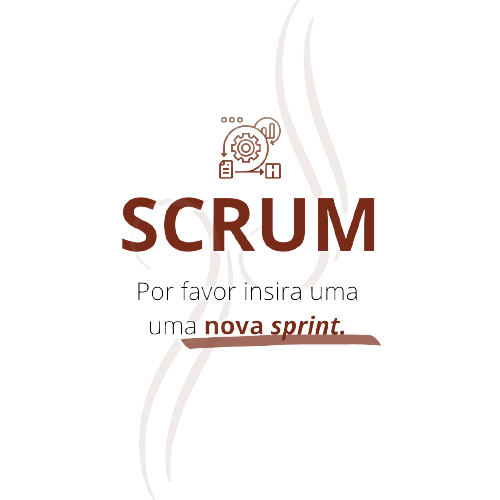
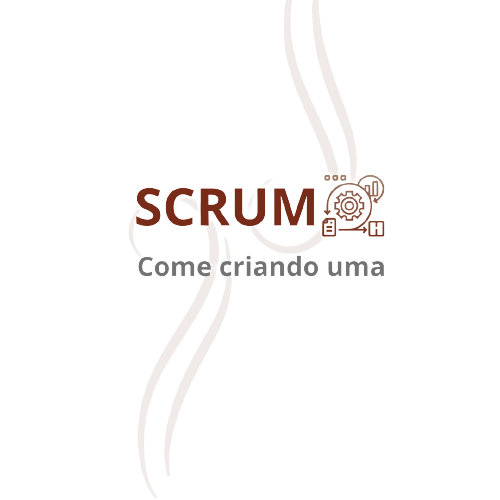
adicionada ideia de nova posição do botão

Changed region(s): [[0.24, 0.21, 0.78, 0.6], [0.33, 0.63, 0.78, 0.72]]

diff --git a/css/index.css b/css/index.css
@@ -1,7 +1,7 @@
 *{
     font-family: arial;
 }
-#addSprint{
+.addSprint{
     background-color: #782b18;
     font-size: 20px;
     color: #e8c8c0;
@@ -15,12 +15,34 @@
     z-index: 99;
 
 }
-#addSprint:hover{
+.nSprint{
+    position: relative;
+    width: 100%;
+    max-width: 700px;
+    flex-wrap: wrap;
+}
+.cxBtn{
+    position: absolute;
+    width: 100%;
+    display: flex;
+    justify-content: center;
+    bottom: 180px;
+}
+.addSprint2{
+    background-color: #782b18;
+    font-size: 20px;
+    color: #e8c8c0;
+    border: none;
+    padding: 5px 20px;
+    border-radius: 10px;
+    cursor: pointer;
+}
+.addSprint:hover{
     box-shadow: 5px 5px 5px rgba(0, 0, 0, 0.182);
     transition: .5s;
 }
 
-#addSprint:hover i{
+.addSprint:hover i{
     text-shadow: 0 0 10px rgb(234, 255, 1);
     transition: .5s;
 }
@@ -127,7 +149,6 @@ section::-webkit-scrollbar-thumb {
 
 }
 .img-aa{
-    z-index: 9999;
     max-width: 100%;
     opacity: .9;
     margin: 0 auto;

diff --git a/css/portal.css b/css/portal.css
@@ -85,12 +85,7 @@ nav a{
 	
 
 }
-#addSprint{
-	position: fixed;
-	right: 20px;
-	bottom: 20px;
-	
-}
+
 header{
 	position: relative;
 	background-color: #592c0c;

diff --git a/index.php b/index.php
@@ -91,7 +91,10 @@
                 </table>
                 <?php
                     if($validar==false){
-                        echo "<img src='img/SCRUM.png' alt=''class='img-aa'>";
+                        echo "<div class='nSprint'>";
+                        echo "<img src='img/SCRUM.png' alt=''class='img-aa'> <br>";
+                        echo "<div class='cxBtn'><button id='addSprint' class='addSprint2'> <i class='bi bi-plus-lg'></i> Nova Sprint</button></div>";
+                        echo "</div>";
                     }
                     
                 ?>
@@ -101,7 +104,11 @@
         </section>
 
 
-        <button id="addSprint"> <i class="bi bi-plus-lg"></i> Nova Sprint</button>
+        <?php
+         if(count($registros)>0){
+            echo "<button id='addSprint' class='addSprint'> <i class='bi bi-plus-lg'></i> Nova Sprint</button>";
+         }
+        ?>
     </div>
 
     <script src="js/jquery.js"></script>   

diff --git a/dashboard.php b/dashboard.php
@@ -112,7 +112,7 @@
         </div>
         <div class="itens maior">
         <span>
-                <h3>Maior quantidade de tarefa por sprint</h3>
+                <h3>Maior quantidade de demandas por sprint</h3>
                 <?php
                   $qntMax = $registroMM[0]['vMax'];
                   echo " <p id='ntDemandas' data-from='0' data-to='$qntMax'
@@ -124,7 +124,7 @@
             </span>
 
             <span>
-                <h3>Maior quantidade de tarefa concluidas  por sprint</h3>
+                <h3>Maior quantidade de demandas concluidas  por sprint</h3>
                 <?php
                  
                   $qntMaxC = $registroMM[0]['vMaxC'];

diff --git a/bd.php b/bd.php
@@ -2,18 +2,18 @@
 
 /* Credenciais do banco de dados. Supondo que você esteja executando o MySQL
 servidor com configuração padrão (usuário 'root' sem senha) */
-/*
+
 define('DB_SERVER', 'localhost');
 define('DB_USERNAME', 'root');
 define('DB_PASSWORD', '');
 define('DB_NAME', 'scrum');
-*/
 
+/*
 define('DB_SERVER', 'sprints-grafico.mysql.uhserver.com');
 define('DB_USERNAME', 'sprints_grafico');
 define('DB_PASSWORD', 'FtAC@ffTb8Pq8i.');
 define('DB_NAME', 'sprints_grafico');
-
+*/
 
 try{
     $bd = new PDO("mysql:host=" . DB_SERVER . ";dbname=" 
